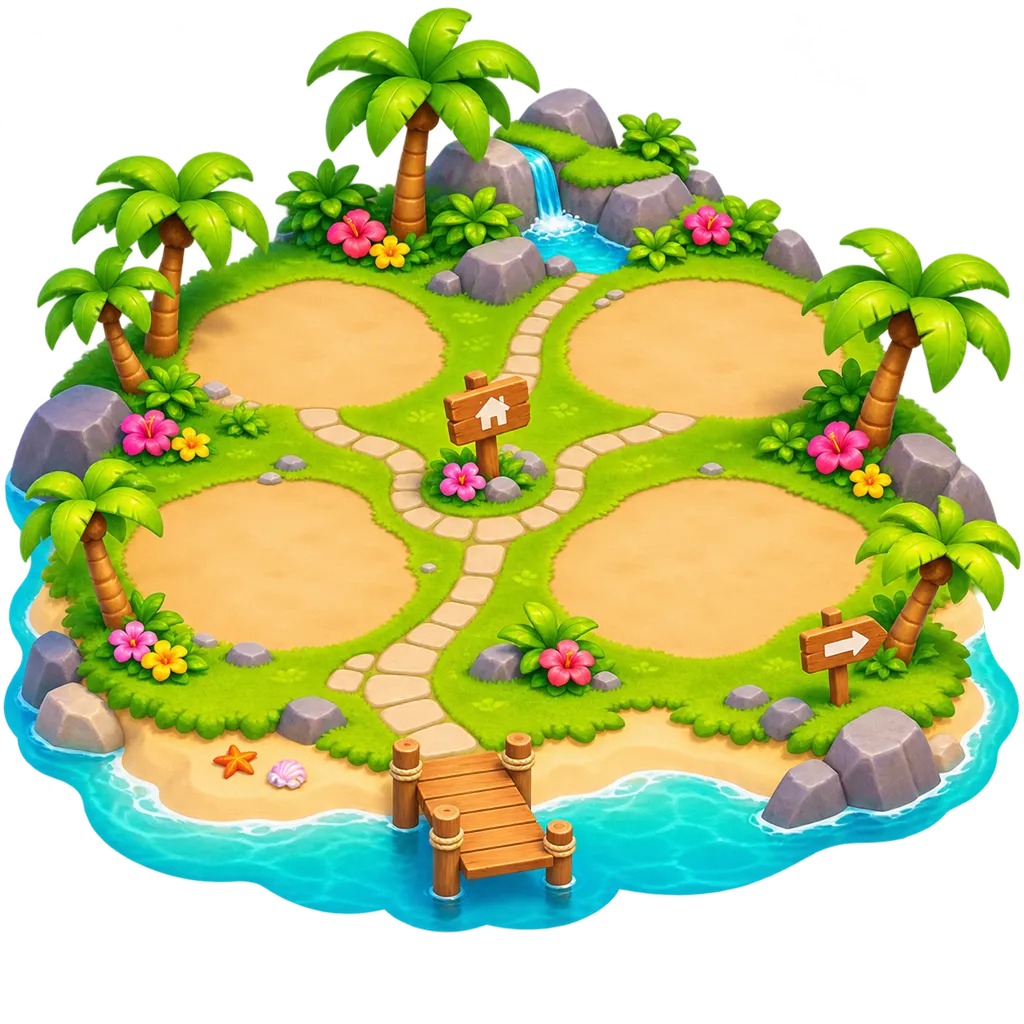
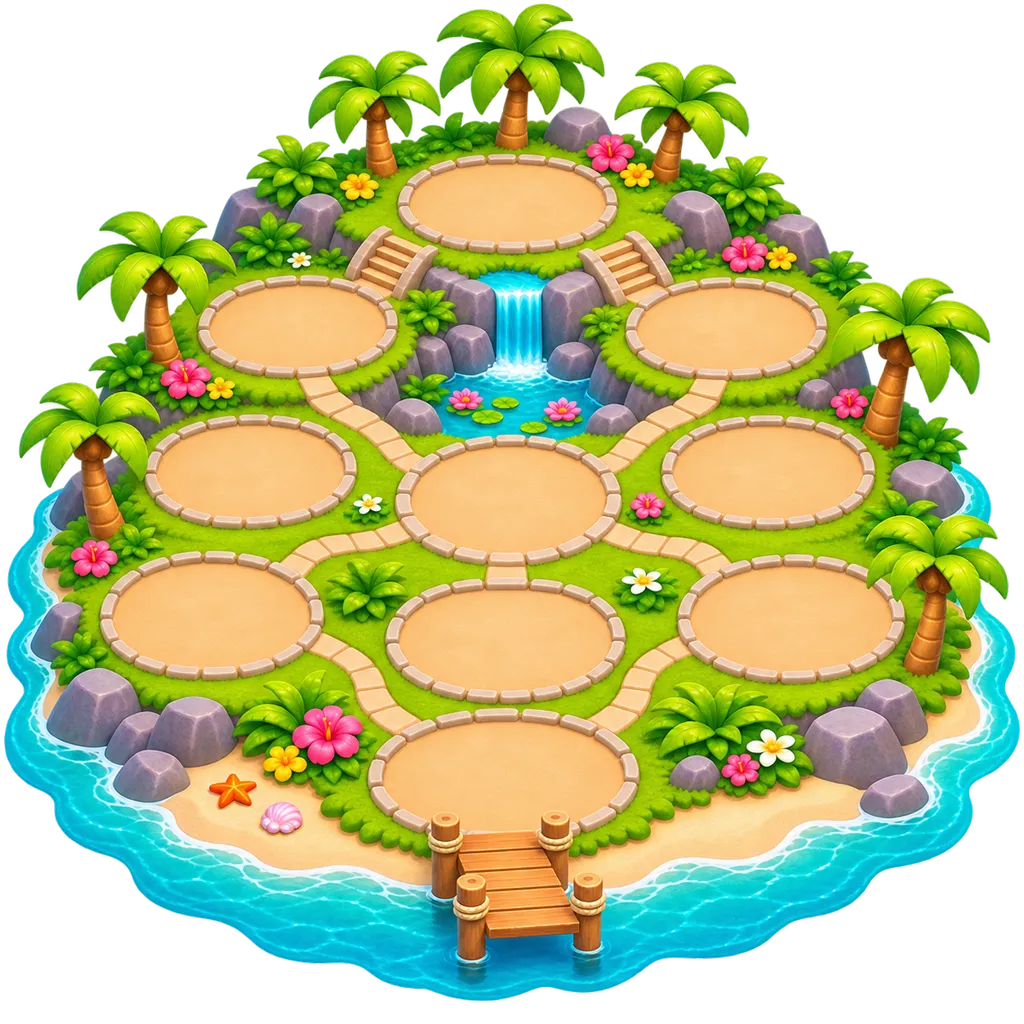
Île du village en image, trois lieux de culte refaits, papier peint jungle
- Village : fond à dix emplacements, les 8 lieux sur le tour et les maisons des enfants au milieu
- Lieux de culte bouddhiste, hindou et orthodoxe : seulement des symboles, plus aucun personnage
- Papier peint jungle, dessiné par le code (14 étoiles)

diff --git a/js/carte.js b/js/carte.js
@@ -225,8 +225,10 @@ const batimentImage = (fichier, x, y, cote) => {
 };
 
 // Les îles en image (images/ile/fond-<île>.webp) : où poser les bâtiments, en parts de l'image [x, y], dans l'ordre des lieux de l'île.
-// cote : la taille d'un bâtiment sur cette île. Une île sans emplacements ici garde son dessin (le village : 8 lieux et les maisons).
+// cote : la taille d'un bâtiment sur cette île. maisons : au village, les deux emplacements du milieu, pour les maisons des enfants.
 const EMPLACEMENTS = {
+  village: { cote: 122, places: [[0.5, 0.2], [0.294, 0.322], [0.706, 0.322], [0.244, 0.456], [0.75, 0.456], [0.206, 0.6], [0.775, 0.606], [0.494, 0.756]],
+    maisons: [[0.494, 0.487], [0.494, 0.625]] },
   savoir: { cote: 122, places: [[0.5, 0.215], [0.32, 0.355], [0.685, 0.355], [0.24, 0.52], [0.75, 0.52], [0.215, 0.657], [0.493, 0.7], [0.78, 0.657]] },
   createurs: { cote: 150, places: [[0.307, 0.357], [0.743, 0.42], [0.25, 0.57], [0.643, 0.657]] },
   securite: { cote: 150, places: [[0.314, 0.343], [0.686, 0.35], [0.27, 0.6], [0.683, 0.607]] },
@@ -258,11 +260,18 @@ const RANGEE = { 1: [0, 1], 2: [160, 1], 3: [108, 0.8], 4: [84, 0.68] };
 const Y_MAISONS = 590;
 
 // Les maisons des enfants (île du village). Plus de 4 enfants : la maison de la joueuse et 3 autres.
-function maisons(profils, joueuse) {
+// centres : sur l'île en image, les deux emplacements du milieu [x, y] ; une ou deux maisons sur chacun
+function maisons(profils, joueuse, centres = null) {
   const visibles = profils.length <= 4 ? profils : [joueuse, ...profils.filter((p) => p.id !== joueuse.id).slice(0, 3)];
-  const [ecart, taille] = RANGEE[visibles.length] ?? [0, 1];
+  const n = visibles.length, rangee = RANGEE[n] ?? [0, 1];
+  const place = (i) => { // [x, y, écart entre maisons, taille]
+    if (!centres) return [400 + (i - (n - 1) / 2) * rangee[0], Y_MAISONS, ...rangee];
+    if (n <= 2) return [...centres[i], 0, 0.85]; // une maison par emplacement
+    const rang = Math.floor(i / 2), dansLeRang = rang ? n - 2 : 2;
+    return [centres[rang][0] + (i % 2 - (dansLeRang - 1) / 2) * 80, centres[rang][1], 80, 0.62];
+  };
   return visibles.map((p, i) => {
-    const x = 400 + (i - (visibles.length - 1) / 2) * ecart, y = Y_MAISONS, [toit, mur] = COULEURS_MAISONS[profils.indexOf(p) % COULEURS_MAISONS.length];
+    const [x, y, ecart, taille] = place(i), [toit, mur] = COULEURS_MAISONS[profils.indexOf(p) % COULEURS_MAISONS.length];
     const tete = dessinerAvatar(p.avatar, 'tete').replace('<svg ', `<svg x="${x - 24}" y="${y - 30}" width="48" height="48" `); // à sa porte
     const aElle = p.id === joueuse.id;
     return `<g class="lieu maison${aElle ? '' : ' autre'}" ${aElle ? `role="button" tabindex="0" data-lieu="maison" aria-label="${echapper(`Ma maison (${p.prenom})`)}"` : 'aria-hidden="true"'}>
@@ -306,7 +315,7 @@ export function dessinerIle(ileId, profils, joueuse, famille = null) {
   ${palmier(92, 420, 0.7)}${palmier(718, 400, 0.7)}${palmier(110, 740, 0.7)}${palmier(690, 745, 0.7)}
   ${fleurs([[330, 380, '#ff7aa8'], [470, 385, '#ffd84a'], [255, 640, '#b06ae0'], [545, 640, '#ff7aa8'], [705, 480, '#b06ae0'], [95, 480, '#ffd84a']])}`}
   ${(fond ? [...lieux].reverse() : lieux).map(lieu).join('')/* sur une île en image, du bas vers le haut : le nom d'un lieu passe devant le toit du lieu d'en dessous */}
-  ${ileId === 'village' ? maisons(profils, joueuse) : ''}${ileId === 'coeur' && !famille ? arbre(ax, ay, fond ? 0.8 : 1.2) : ''}
+  ${ileId === 'village' ? maisons(profils, joueuse, fond ? e.maisons.map(surLeFond) : null) : ''}${ileId === 'coeur' && !famille ? arbre(ax, ay, fond ? 0.8 : 1.2) : ''}
   <g class="lieu port" role="button" tabindex="0" data-lieu="archipel" aria-label="Le bateau : aller vers une autre île">
     <title>Le bateau</title><g transform="translate(95 850)">${voilier(1.3)}</g>${etiquette(95, 890, "L'archipel", 24)}</g>
 </svg>`;

diff --git a/tests/carte.test.js b/tests/carte.test.js
@@ -109,7 +109,7 @@ test('nouveau style : un bâtiment dont l’image est prête est montré en imag
   } finally { delete globalThis.IMAGES; }
 });
 
-test('nouveau style : sur une île en image, les lieux se posent sur ses emplacements ; le village garde son dessin', async () => {
+test('nouveau style : sur une île en image, les lieux et les maisons se posent sur ses emplacements', async () => {
   const { dessinerIle, dessinerArchipel } = await import('../js/carte.js');
   const j = { id: 'a', prenom: 'Lina', age: 8, avatar: (await import('../js/avatar.js')).AVATAR_PAR_DEFAUT, iles: ['coeur'] };
   const avant = dessinerIle('savoir', [j], j);
@@ -122,7 +122,13 @@ test('nouveau style : sur une île en image, les lieux se posent sur ses emplace
     assert.ok(!savoir.includes('NaN') && !savoir.includes('undefined'));
     const coeur = dessinerIle('coeur', [j], j); // 2 lieux et le grand arbre, pour 4 emplacements
     assert.ok(coeur.includes('fond-coeur.webp') && !coeur.includes('NaN'));
-    assert.ok(!dessinerIle('village', [j], j).includes('fond-village'), 'le village n’a pas assez d’emplacements : il garde son dessin');
+    for (const n of [1, 2, 3, 4, 6]) { // le village : 8 lieux sur le tour, les maisons sur les deux emplacements du milieu
+      const enfants = [j, ...[...Array(n - 1)].map((_, i) => ({ ...j, id: `b${i}`, prenom: `E${i}` }))];
+      const village = dessinerIle('village', enfants, j);
+      assert.ok(village.includes('fond-village.webp') && !village.includes('NaN') && !village.includes('undefined'), `${n} enfants`);
+      assert.equal(village.match(/class="lieu maison/g).length, Math.min(n, 4));
+      assert.equal(village.match(/data-lieu="/g).length, 10); // 8 lieux, ma maison, le bateau
+    }
     const archipel = dessinerArchipel(j);
     assert.equal(archipel.match(/images\/ile\/fond-/g).length, 3); // savoir, cœur et village en image sur la carte de l'archipel
   } finally { delete globalThis.IMAGES; }

diff --git a/js/maison.js b/js/maison.js
@@ -303,6 +303,7 @@ function papier(cle, id, defaut) {
     etoiles: `<pattern id="${id}" width="70" height="70" patternUnits="userSpaceOnUse"><rect width="70" height="70" fill="#3a3f78"/><path d="M18 8 L21 16 L29 16 L23 21 L25 29 L18 24 L11 29 L13 21 L7 16 L15 16Z" fill="#ffd84a"/><circle cx="52" cy="48" r="3" fill="#fff"/><circle cx="44" cy="14" r="2" fill="#fff"/></pattern>`,
     coeurs: `<pattern id="${id}" width="56" height="56" patternUnits="userSpaceOnUse"><rect width="56" height="56" fill="#fff0f4"/>${[[14, 12], [42, 40]].map(([x, y]) => `<path transform="translate(${x - 25} ${y - 24})" d="M25 20 C25 12 14 12 14 20 C14 27 25 33 25 36 C25 33 36 27 36 20 C36 12 25 12 25 20Z" fill="#f48fb1"/>`).join('')}</pattern>`,
     nuages: `<pattern id="${id}" width="120" height="90" patternUnits="userSpaceOnUse"><rect width="120" height="90" fill="#cfeaff"/>${[[30, 26], [90, 68]].map(([x, y]) => `<ellipse cx="${x}" cy="${y}" rx="22" ry="9" fill="#fff"/><circle cx="${x - 8}" cy="${y - 6}" r="9" fill="#fff"/><circle cx="${x + 6}" cy="${y - 9}" r="11" fill="#fff"/>`).join('')}</pattern>`,
+    jungle: `<pattern id="${id}" width="64" height="72" patternUnits="userSpaceOnUse"><rect width="64" height="72" fill="#c9e6b8"/>${[[16, 18, -12], [48, 54, 10]].map(([x, y, r]) => `<g transform="rotate(${r} ${x} ${y})"><ellipse cx="${x}" cy="${y}" rx="8" ry="14" fill="#3e9a48"/><path d="M${x} ${y - 12} V${y + 12}" stroke="#2e7d32" stroke-width="2"/></g>`).join('')}</pattern>`,
     'arc-en-ciel': `<pattern id="${id}" width="40" height="132" patternUnits="userSpaceOnUse">${['#ffc9c9', '#ffe0b8', '#fff3b0', '#c9efc4', '#c4e3fb', '#dccbf5'].map((c, i) => `<rect y="${i * 22}" width="40" height="22" fill="${c}"/>`).join('')}</pattern>`,
   };
   if (!cle) return { defs: '', fond: defaut };

diff --git a/images/liste.js b/images/liste.js
@@ -46,9 +46,12 @@ self.IMAGES = [
  "images/ile/coiffeur.webp",
  "images/ile/confiance.webp",
  "images/ile/corps.webp",
+ "images/ile/croyance-bouddhisme.webp",
  "images/ile/croyance-catholique.webp",
+ "images/ile/croyance-hindouisme.webp",
  "images/ile/croyance-islam.webp",
  "images/ile/croyance-judaisme.webp",
+ "images/ile/croyance-orthodoxe.webp",
  "images/ile/croyance-protestant.webp",
  "images/ile/croyance-sagesse.webp",
  "images/ile/cuisine.webp",

diff --git a/sw.js b/sw.js
@@ -1,5 +1,5 @@
 // Garde l'app en cache pour qu'elle marche hors ligne. Changer VERSION à chaque mise en ligne.
-const VERSION = 'ile-23';
+const VERSION = 'ile-24';
 importScripts('images/liste.js'); // self.IMAGES : les images du nouveau style déjà prêtes
 const FICHIERS = [...self.IMAGES, 'images/liste.js',
   './', 'index.html', 'style.css', 'manifest.json', 'icons/icone-192.png', 'icons/icone-512.png',

diff --git a/js/catalogue.js b/js/catalogue.js
@@ -74,6 +74,7 @@ export const PAPIERS = {
   coeurs: { nom: 'Petits cœurs', prix: 12 },
   nuages: { nom: 'Nuages', prix: 12 },
   'arc-en-ciel': { nom: 'Arc-en-ciel', prix: 16 },
+  jungle: { nom: 'Jungle', prix: 14 },
 };
 // Objets de cuisine : pas à vendre, on les gagne en faisant une recette du restaurant pour de vrai, avec un parent.
 export const USTENSILES = {

diff --git a/SPEC.md b/SPEC.md
@@ -212,12 +212,12 @@ Chaque jeu a le décor de son lieu. Calcul = salle de classe : la question à la
 ### Maison et magasins
 - La maison : la chambre et la cuisine au départ (la cuisine se remplit avec les objets gagnés au restaurant) ; le salon et la salle de jeux s'achètent (30 ⭐ chacun) au magasin de meubles. On passe d'une pièce à l'autre, on place ou range ses objets, papier peint au choix par pièce. Vue de face.
 - On achète dans les magasins de l'île (pas dans la maison). Catalogue dans `js/catalogue.js` et `js/avatar.js` (prix modifiables), 131 objets payants :
-  - **Magasin de meubles** : 31 meubles, dont une cuisine complète et ceux du jardin (pommier, cabane, potager, massif de fleurs) (frigo, évier, table, chaises, étagère à bocaux, placard, lave-vaisselle) ; 12 jouets (dont la balançoire, le trampoline et la petite piscine du jardin) ; 8 papiers peints ; 3 pièces (salon, salle de jeux, jardin : dehors, sans fenêtre ni papier peint ni tableau) ; 6 couleurs de lit (rayon « Couleurs du lit », le rose est celui du départ).
+  - **Magasin de meubles** : 31 meubles, dont une cuisine complète et ceux du jardin (pommier, cabane, potager, massif de fleurs) (frigo, évier, table, chaises, étagère à bocaux, placard, lave-vaisselle) ; 12 jouets (dont la balançoire, le trampoline et la petite piscine du jardin) ; 9 papiers peints (dont la jungle) ; 3 pièces (salon, salle de jeux, jardin : dehors, sans fenêtre ni papier peint ni tableau) ; 6 couleurs de lit (rayon « Couleurs du lit », le rose est celui du départ).
   - **Boutique** : 24 tenues spéciales, 12 bijoux et accessoires (sac, montre, barrettes, lunettes de soleil, écharpe…), 11 paires de chaussures (rayon « Chaussures », les baskets rouges sont celles du départ) et 9 chapeaux (rayon « Chapeaux », on le met ou on l'enlève).
   - **Coiffeur** : 7 coiffures et 7 couleurs à gagner, en plus de celles du départ.
   - **Refuge** : 18 animaux (chiots, chatons, lapins et hamsters de plusieurs couleurs, dalmatien, tortue, perroquet, aras rouge et bleu, poissons rouge et bleu), 11 vêtements (dont 4 pulls, objets de collection qu'aucun animal ne porte) pour animaux (pulls, nœud, colliers, chapeau de fête) et 10 accessoires (gamelle, os, pelote, laisse, coussin, roue, perchoir, panier, griffoir, aquarium).
 - **Animaux** : à l'adoption, l'enfant leur donne un prénom (15 lettres au plus), affiché au-dessus de l'animal et modifiable (« ✏ Prénom »). Le bouton « 👕 » change le vêtement de l'animal parmi ceux qu'on a. Les animaux posés se rangent sur 5 places le long du sol ; leurs accessoires se mettent à côté du premier animal qui s'en sert (la laisse et le griffoir au mur ; le perroquet se pose sur son perchoir ; le poisson nage dans l'aquarium).
-- **Tout débloquer** coûte 2 433 ⭐ (2 362 dans les magasins, 31 pour les dessins à colorier, 40 pour les îles), soit environ 200 parties : un objectif à long terme.
+- **Tout débloquer** coûte 2 447 ⭐ (2 376 dans les magasins, 31 pour les dessins à colorier, 40 pour les îles), soit environ 200 parties : un objectif à long terme.
 - Un meuble ou jouet du salon ou de la salle de jeux ne s'achète qu'après la pièce (bouton « 🔒 Salon »).
 - Meubles, jouets et animaux sont tous dessinés en SVG dans le même style (pas d'emojis).
 - Les animaux suivent l'enfant : ils apparaissent dans la pièce affichée. Les animaux n'existent que comme animaux de compagnie.
